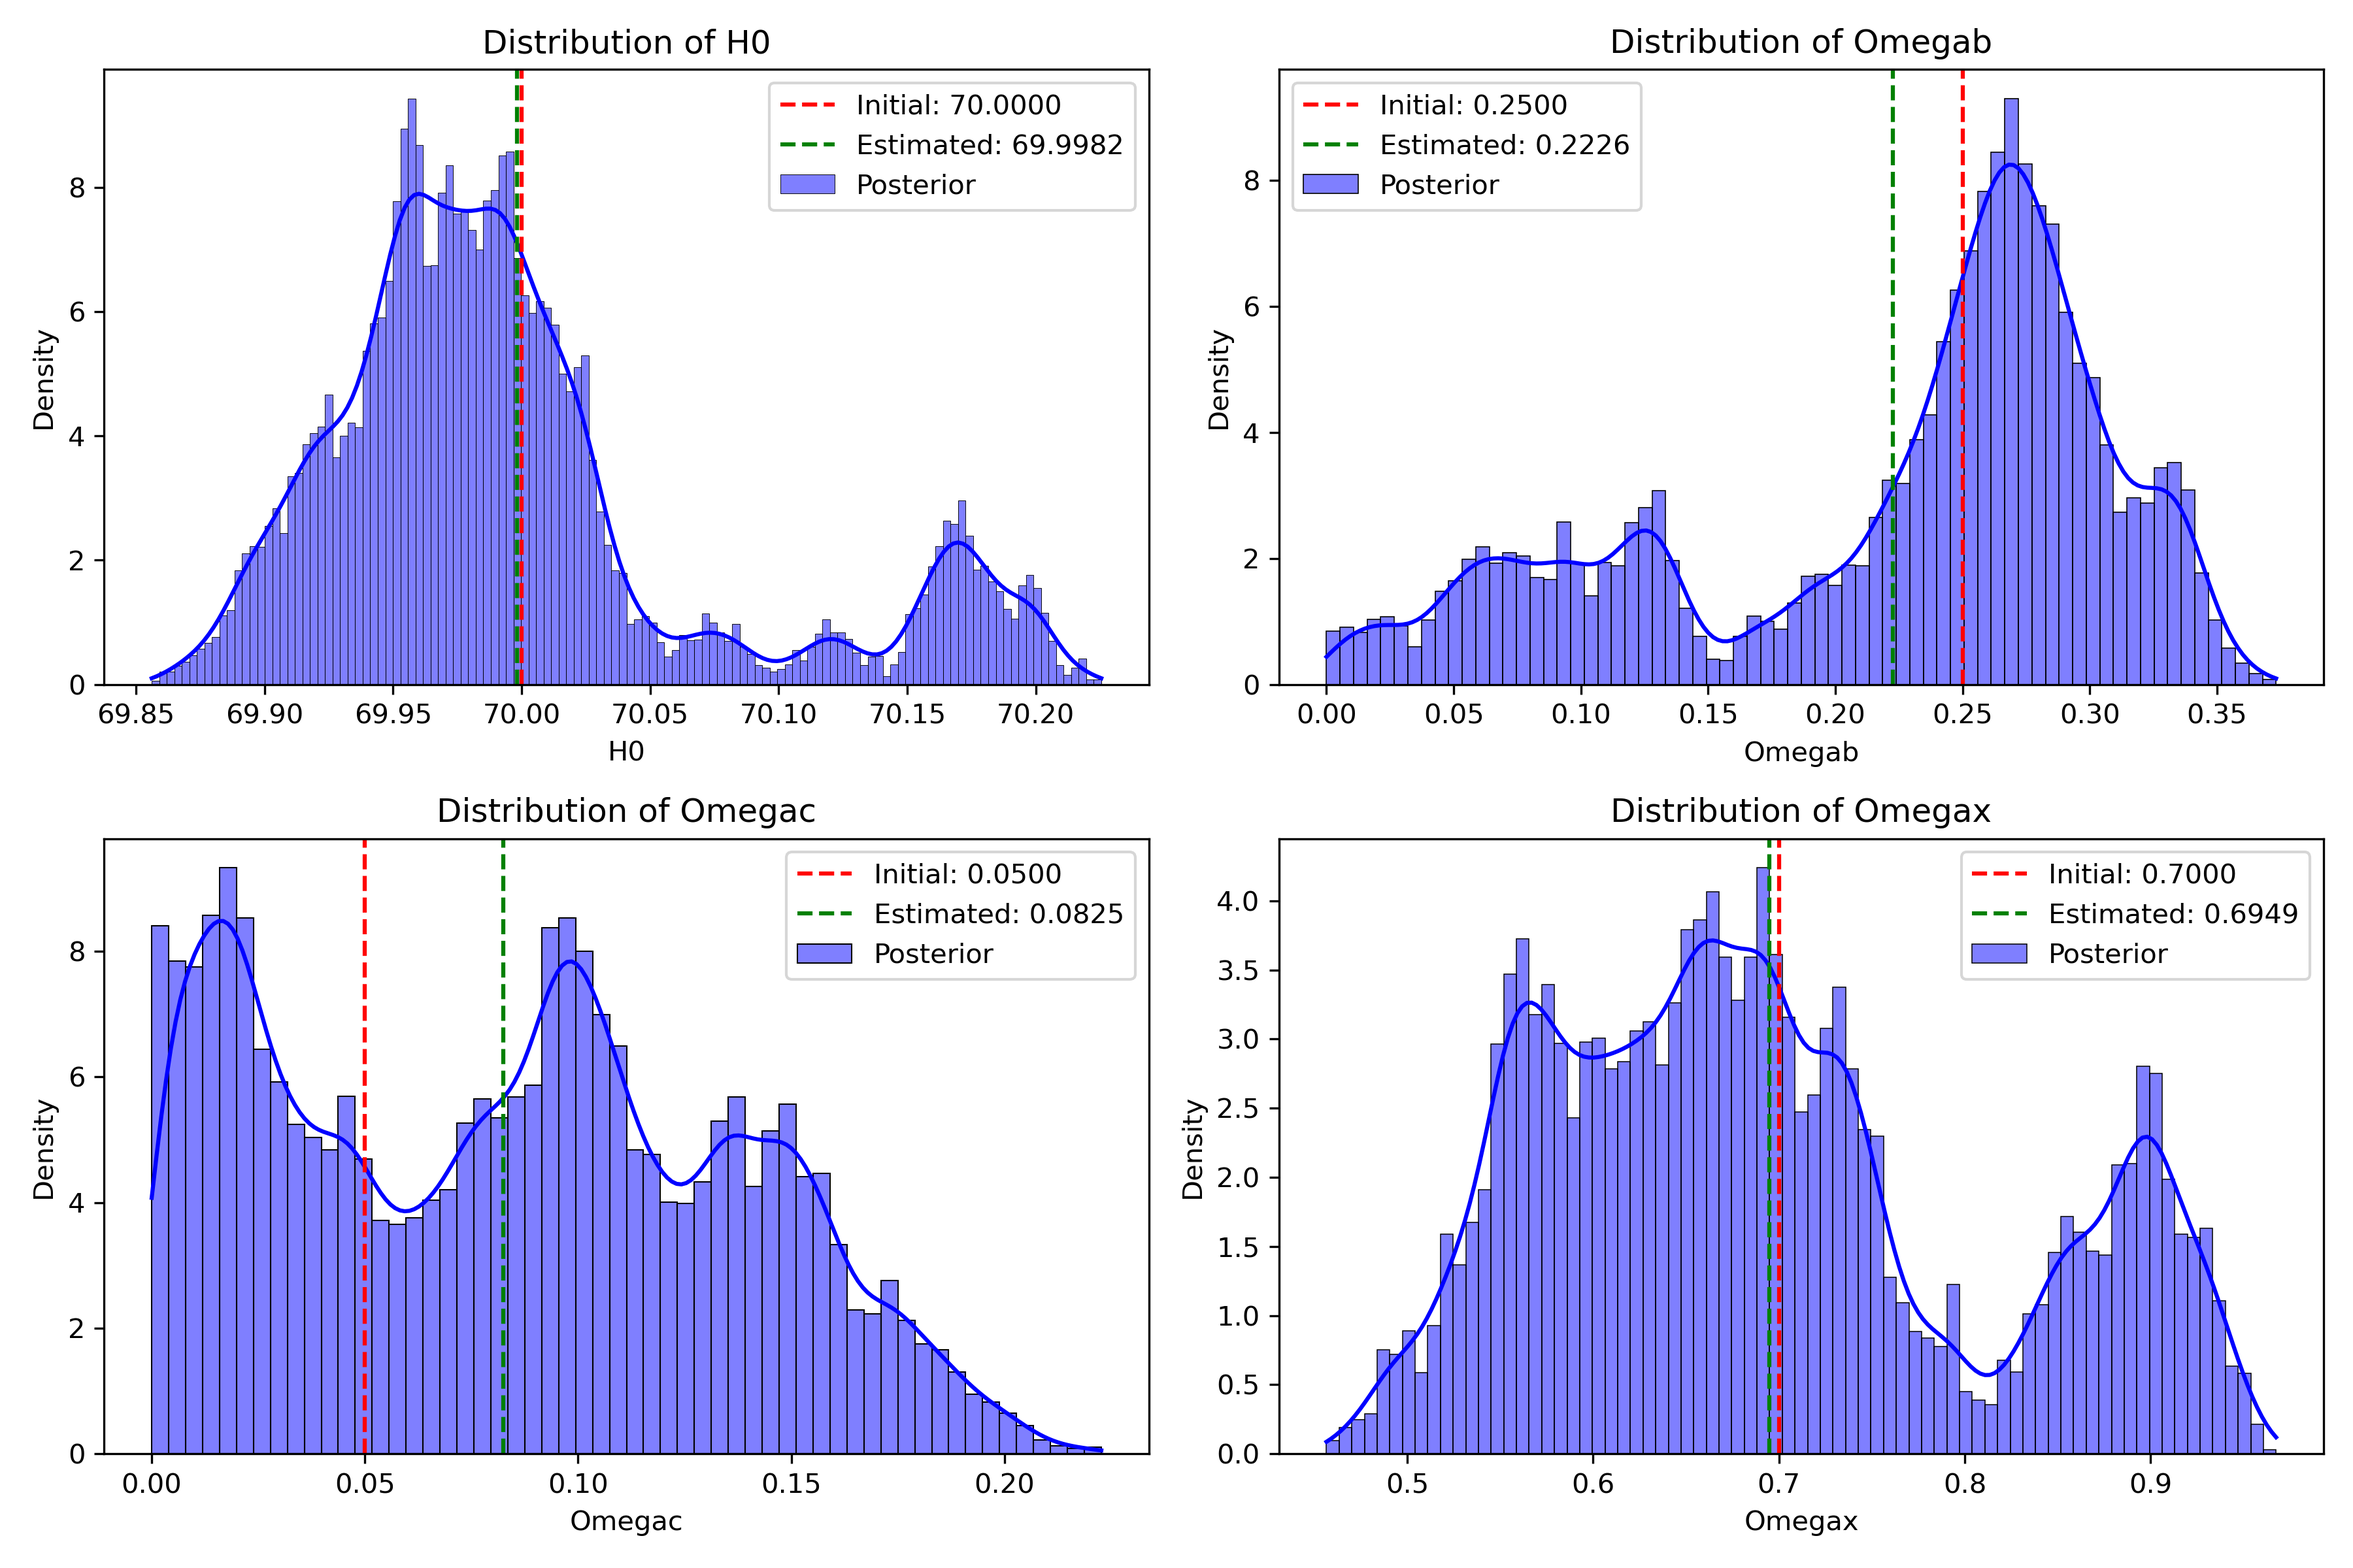
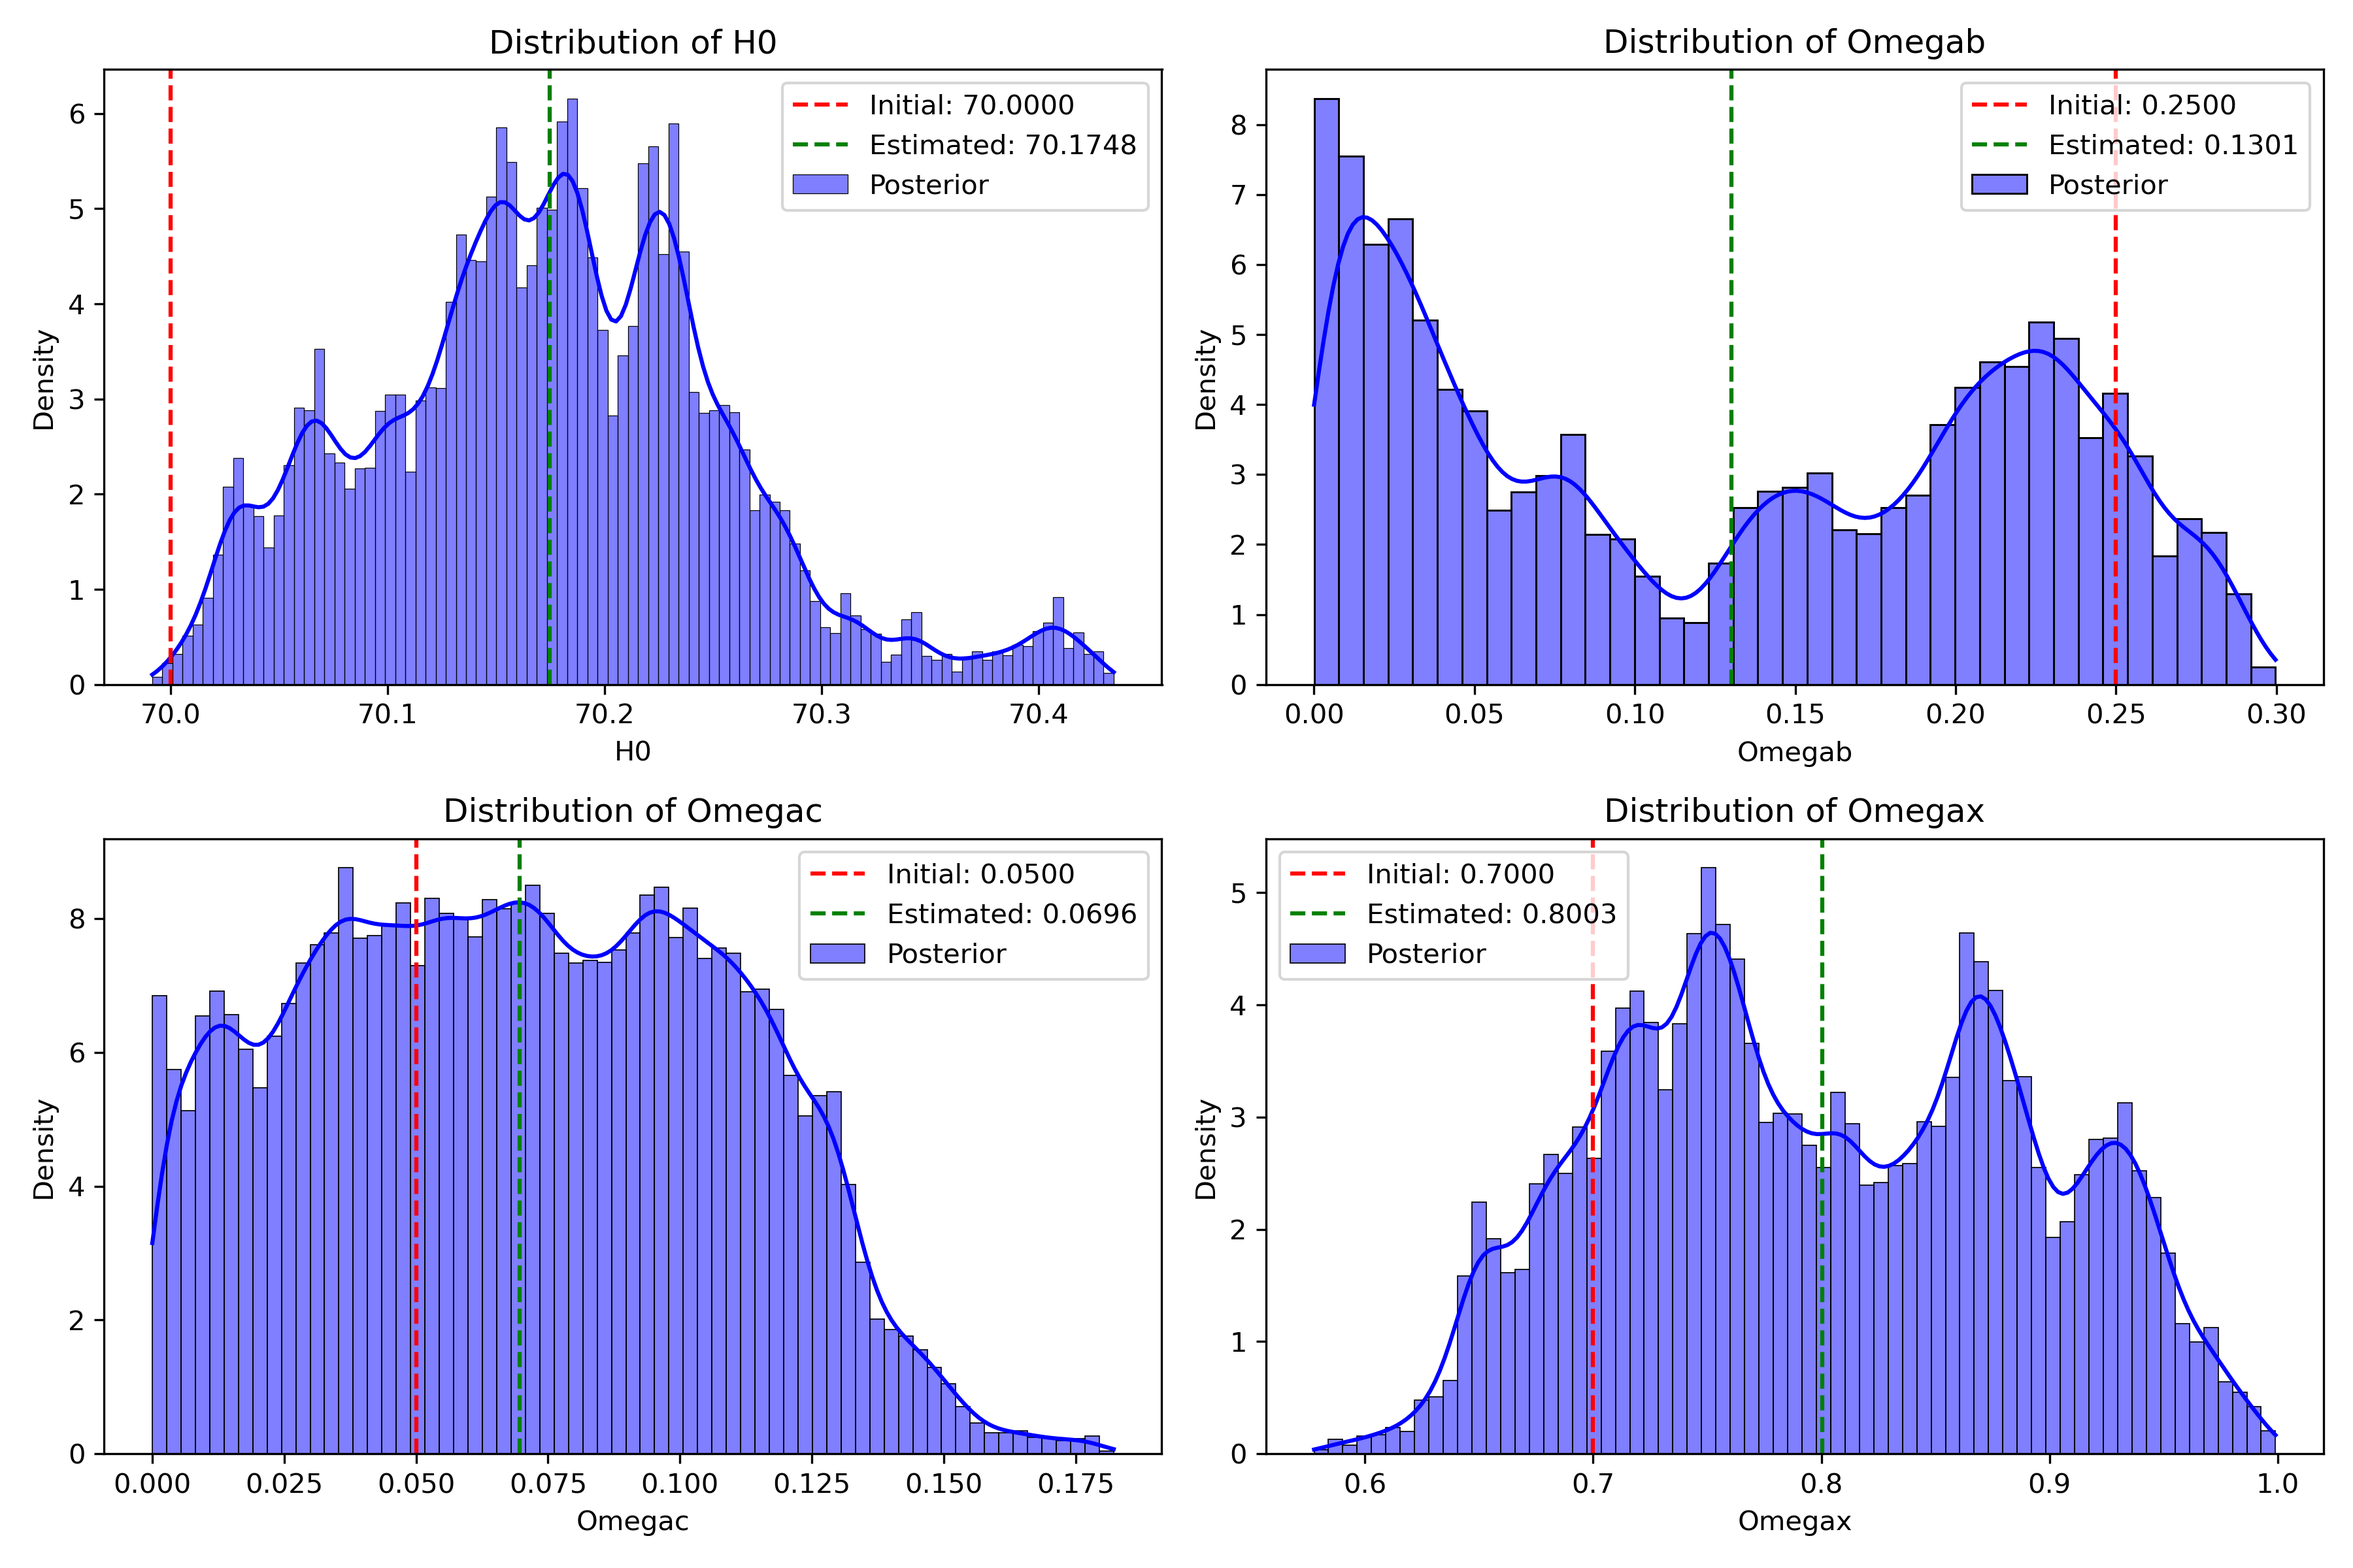
main file

diff --git a/FinalProject/FinalProject_emcee.py b/FinalProject/FinalProject_emcee.py
@@ -4,5 +4,162 @@ import matplotlib.pyplot as plt
 import seaborn as sns
 import pandas as pd  # Import pandas for DataFrame functionality
 from numcosmo_py import Nc, Ncm
-import subprocess
 import emcee 
+
+
+# Initialize the NumCosmo library
+Ncm.cfg_init()
+
+# Define the path to the mock data file
+mock_data_path = os.path.join(os.path.dirname(__file__), "mock_supernova_data.txt")
+
+# Check if the file exists
+if not os.path.exists(mock_data_path):
+    raise FileNotFoundError(f"Mock data file not found at: {mock_data_path}")
+
+# Load the mock data
+mock_data = np.loadtxt(mock_data_path)
+z = mock_data[:, 0]  # Redshift
+d_lum = mock_data[:, 1]  # Luminosity distance
+error = mock_data[:, 2]  # Error in luminosity distance
+
+# Create a cosmological model (ΛCDM)
+cosmo = Nc.HICosmoDEXcdm.new()
+
+# Set initial values for parameters
+param_init = {
+    "H0": 70.0,
+    "Omegab": 0.05,
+    "Omegac": 0.25,
+    "Omegax": 0.7,
+}
+
+# Set the initial values in the cosmology object
+for param, value in param_init.items():
+    setattr(cosmo.props, param, value)
+
+# Print the initial parameters
+print("# Initial model parameters: ")
+cosmo.params_log_all()
+
+# Define a custom likelihood function
+class CustomLikelihood:
+    def __init__(self, z, d_lum, error, cosmo):
+        self.z = z
+        self.d_lum = d_lum
+        self.error = error
+        self.cosmo = cosmo
+        self.dist = Nc.Distance.new(2.0)  # Distance object for calculations
+        self.dist.prepare(cosmo)  # Prepare the distance object for the cosmology
+
+    def log_likelihood(self, params):
+        """Compute the log-likelihood for a given set of parameters."""
+        H0, Omegab, Omegac = params
+        Omegax = 1.0 - Omegab - Omegac  # Enforce the constraint Omegab + Omegac + Omegax = 1
+
+        # Check parameter constraints
+        if Omegab < 0 or Omegab > 1 or Omegac < 0 or Omegac > 1 or Omegax < 0 or Omegax > 1:
+            return -np.inf  # Reject the proposal if constraints are violated
+
+        # Set parameters in the cosmology object
+        self.cosmo.props.H0 = H0
+        self.cosmo.props.Omegab = Omegab
+        self.cosmo.props.Omegac = Omegac
+        self.cosmo.props.Omegax = Omegax
+
+        # Compute the chi-squared statistic
+        chi2 = 0.0
+        for z_i, d_lum_i, error_i in zip(self.z, self.d_lum, self.error):
+            d_lum_model = self.dist.luminosity(self.cosmo, z_i)
+            chi2 += ((d_lum_i - d_lum_model) / error_i) ** 2
+
+        # Return the log-likelihood
+        return -0.5 * chi2
+
+# Create the custom likelihood
+likelihood = CustomLikelihood(z, d_lum, error, cosmo)
+
+# Define the prior function
+def log_prior(params):
+    H0, Omegab, Omegac = params
+    # Uniform priors for H0, Omegab, and Omegac
+    if 50 <= H0 <= 100 and 0 <= Omegab <= 1 and 0 <= Omegac <= 1:
+        return 0.0  # Uniform prior
+    return -np.inf  # Reject the proposal if outside the prior range
+
+# Define the log-posterior function
+def log_posterior(params):
+    lp = log_prior(params)
+    if not np.isfinite(lp):
+        return -np.inf
+    return lp + likelihood.log_likelihood(params)
+
+# Set up the emcee sampler
+nwalkers = 32  # Number of walkers
+ndim = 3  # Number of parameters (H0, Omegab, Omegac)
+nsteps = 10000  # Number of MCMC steps
+
+# Initial positions for the walkers
+initial_params = np.array([param_init["H0"], param_init["Omegab"], param_init["Omegac"]])
+initial_positions = initial_params + 1e-4 * np.random.randn(nwalkers, ndim)
+
+# Create the sampler
+sampler = emcee.EnsembleSampler(nwalkers, ndim, log_posterior)
+
+# Run the MCMC sampler
+print("Running MCMC...")
+sampler.run_mcmc(initial_positions, nsteps, progress=True)
+print("MCMC complete.")
+
+# Extract the chains
+samples = sampler.get_chain()
+samples = samples.reshape(-1, ndim)  # Flatten the chains
+
+# Convert chains to a DataFrame for easier plotting
+param_names = ["H0", "Omegab", "Omegac"]
+samples_df = pd.DataFrame(samples, columns=param_names)
+
+# Add Omegax to the DataFrame (computed from Omegab and Omegac)
+samples_df["Omegax"] = 1.0 - samples_df["Omegab"] - samples_df["Omegac"]
+
+# Compute mean and standard deviation for each parameter
+param_estimates = {param: (np.mean(samples_df[param]), np.std(samples_df[param])) for param in param_names + ["Omegax"]}
+
+# Plot 1: Marginal Distributions with Legends
+plt.figure(figsize=(12, 8))
+for i, param in enumerate(param_names + ["Omegax"]):
+    plt.subplot(2, 2, i + 1)
+    sns.histplot(samples_df[param], kde=True, color='blue', stat='density', label='Posterior')
+    
+    # Add vertical lines for initial and estimated values
+    initial_value = param_init.get(param, 1.0 - param_init["Omegab"] - param_init["Omegac"])  # Handle Omegax
+    estimated_value, _ = param_estimates[param]
+    
+    plt.axvline(initial_value, color='red', linestyle='--', label=f"Initial: {initial_value:.4f}")
+    plt.axvline(estimated_value, color='green', linestyle='--', label=f"Estimated: {estimated_value:.4f}")
+    
+    plt.title(f"Distribution of {param}")
+    plt.xlabel(param)
+    plt.ylabel("Density")
+    plt.legend()
+
+plt.tight_layout()
+plt.savefig("FinalProject/Figs/parameter_distributions_emcee.png", dpi=300)
+#plt.show()
+
+# Plot 2: Pairwise Correlations
+plt.figure(figsize=(12, 8))
+sns.pairplot(
+    data=samples_df,
+    kind='scatter',
+    plot_kws={'alpha': 0.5, 'edgecolor': 'none'}
+)
+plt.suptitle("Pairwise Correlations", y=1.02)
+plt.tight_layout()
+plt.savefig("FinalProject/Figs/parameter_correlations_emcee.png", dpi=300) 
+#plt.show()
+
+# Print results
+print("\nEstimated Cosmological Parameters:")
+for param, (mean, std) in param_estimates.items():
+    print(f"{param}: {mean:.4f} ± {std:.4f}")

diff --git a/FinalProject/main.py b/FinalProject/main.py
@@ -1,0 +1,11 @@
+import subprocess
+
+subprocess.run(["python3", "FinalProject/Mockdata.py"])
+
+print("Metropolis–Hastings algorithm:")
+subprocess.run(["python3", "FinalProject/FinalProject_MH.py"])
+
+print("emcee algorithm:")
+subprocess.run(["python3", "FinalProject/FinalProject_emcee.py"])
+
+# se quiser testar somente um dos algoritimos comente a linha do que deseja excluir aqui e rode o programa main

diff --git a/FinalProject/FinalProject_MH.py b/FinalProject/FinalProject_MH.py
@@ -4,9 +4,6 @@ import matplotlib.pyplot as plt
 import seaborn as sns
 import pandas as pd  # Import pandas for DataFrame functionality
 from numcosmo_py import Nc, Ncm
-import subprocess
-
-subprocess.run(["python3", "FinalProject/Mockdata.py"])
 
 # Initialize the NumCosmo library
 Ncm.cfg_init()
